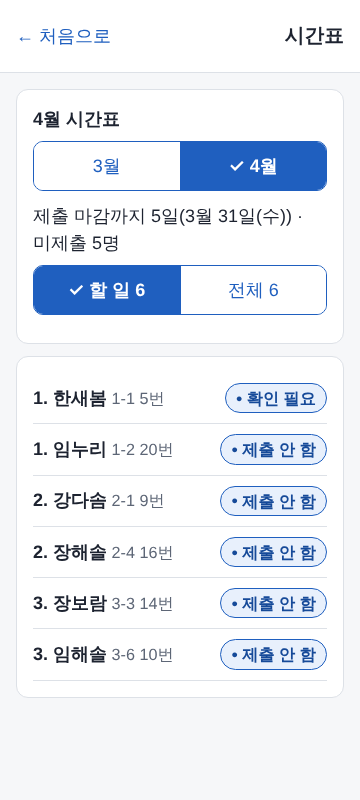
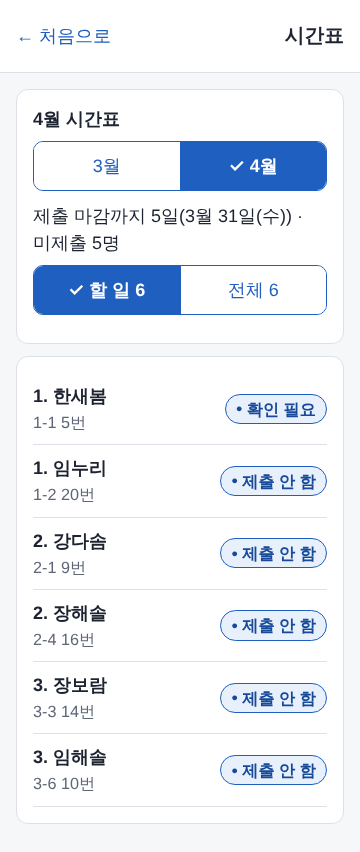
D14 후속: 고쳐진 화면 반영(누적표 거부 안내·확정 초록 안내·교사 목록 둘째 줄) + 사진 6장, 절 번호·진단 링크 확인 (#249)
- C12: '누적표는 관리자만 볼 수 있습니다.' 안내로 갱신, 사진 c-stats-teacher 추가
- D14·D17·읽는 법: 앞 숫자는 학년, 확정 초록 안내
- 13행 pilot-guide 7절→6절, A7·B10(DIAG_ENABLED 끈 뒤 접속 진단 링크 없음), pilot-guide 1절·이상할 때 표 갱신
- 사진 갱신: d-teacher-list·confirm·confirmed·other, d-student-confirmed

Claude-Session: https://claude.ai/code/session_01By8Yaa8urwsSoHVw3FXUZa

diff --git a/docs/design/stage7-teacher-checks.md b/docs/design/stage7-teacher-checks.md
@@ -10,7 +10,8 @@
 - 컴퓨터 테스트(`npm test`)가 이미 확인한 것은 각 절 끝에 "이미 확인됨"으로 적었습니다. 여기서는 **실제 Apps Script에서만 보이는 것**(실제 로그인 계정, 계정별 화면, 휴대폰 화면, 시트에 남는 기록)을 봅니다.
 - 이름은 모두 **가짜 데이터**입니다. 실제 학생·학부모 이름·전화번호로 시험하지 않습니다. 시험한 시설 일지·시간표는 끝에서 **취소**하거나 가짜 데이터 시트에서만 합니다(시범 운영 시트에서 하지 않습니다).
 - **날짜 주의:** 시간표(D)는 **매달 25일~말일에만 제출**할 수 있습니다. 시험하는 날이 그 기간이 아니면 D2부터는 "지금은 시간표를 내는 기간이 아닙니다"가 나오는 것이 **정상**입니다. 그때는 시트 `settings`의 `timetable.submit_start_day`를 시험하는 날 이하로 바꿨다가(예: 오늘이 10일이면 `1`) **시험이 끝나면 `25`로 되돌립니다**(`timetable.submit_end_day`는 `last` 그대로).
-- 쉬운 말로 적었습니다. 학생·학부모에게 안내할 말은 [`docs/plan/pilot-guide.md`](../plan/pilot-guide.md) 7절에 있습니다.
+- 목록의 "1. 한새봄"처럼 이름 앞에 붙은 **숫자는 학년**입니다(번호가 아닙니다). 그 아래 둘째 줄이 "반-번호"입니다(예: 1-1 5번).
+- 쉬운 말로 적었습니다. 학생·학부모에게 안내할 말은 [`docs/plan/pilot-guide.md`](../plan/pilot-guide.md) 6절에 있습니다.
 
 ## 시험 계정 — 학생·학부모는 **역할을 바꿔 가며** 쓰지 않고, 아래 계정을 따로 둡니다
 
@@ -49,6 +50,7 @@
 | A4 | 학생 A | 주소 끝에 `?page=sheet`(출석부)나 `?page=outs`(OUT 목록)를 붙여 엽니다 | **권한이 없습니다** 화면("이 화면은 볼 수 있는 역할이 아닙니다. 처음으로 돌아가 주세요."). 출석부·OUT 목록 같은 교사 화면은 열리지 않는다 | ![권한 없음](stage7-checks/a-student-noaccess.png) | |
 | A5 | 학생 A | **[내 OUT 자세히]**를 누르고 [← 돌아가기]로 돌아옵니다 | 내 OUT 목록(날짜·항목·1OUT). 취소된 OUT은 "취소"로 남아 있고 합계에는 세지 않는다. 메모·입력한 교사는 없다. 돌아가기가 홈으로 돌려보낸다 | | |
 | A6 | 학생 A | 홈의 **전화번호·이메일·교사 메모·상담 내용**을 찾아봅니다 | **어디에도 없다**(학생 홈에는 상담 줄 자체가 없다) | | |
+| A7 | 소유자 | 시범 운영 전에 시트 `settings`(스크립트 속성)의 **`DIAG_ENABLED`를 끄고**(`false`나 지움) 학생 A로 홈을 맨 아래까지 봅니다 | 맨 아래에 **"접속 진단" 링크가 없다**(켜 두면 "처음으로 · 접속 진단"이 보인다) | | |
 
 > 이미 확인됨: 학생은 본인 id로만 조회, 남의 학생 id를 보내면 거부(denied 기록), 응답에 다른 학생 이름·이메일·전화·메모·상담 내용 없음, 취소 OUT은 합계에서 제외.
 > 확인 못 한 것: **같은 gmail이 여러 학생 줄에 들어 있을 때**(본인 판정이 첫 줄로 정해진다), 실제 로그인 방식이 바뀌었을 때(0단계 진단 결과).
@@ -68,6 +70,7 @@
 | B7 | 연결 없는 학부모 | 접속해 홈을 봅니다 | 카드 **"연결된 자녀가 없습니다"**: "학교에 알려 주신 구글 계정과 자녀 정보가 아직 이어지지 않았습니다. 담당 선생님께 이 계정(로그인한 구글 계정)으로 자녀를 연결해 달라고 알려 주세요." | ![연결 없음](stage7-checks/b-parent-nolink.png) | |
 | B8 | 학부모 | 주소 끝에 `?page=counsel`(상담일지)을 붙여 엽니다 | **권한 없음 화면**. 상담일지 화면은 교사만 연다 | ![권한 없음](stage7-checks/b-parent-noaccess.png) | |
 | B9 | 소유자 | 시트를 보면서: 학부모 홈에 **상담 줄이 나온 날짜**가 별도 `신한1학사_상담일지` 시트의 `counsel_notes`에서 "학부모에게 보임"이 켜진 상담과 같은지 봅니다. 켜지 않은 상담은 학부모 홈에 **없는** 것을 확인합니다 | 학부모에게 보이도록 한 상담만 날짜·교사로 나온다. 상담 **내용**은 운영 시트가 아니라 별도 `신한1학사_상담일지`에만 있다 | | |
+| B10 | 소유자 | `DIAG_ENABLED`가 꺼진 채 학부모 홈과 "연결된 자녀가 없습니다" 화면(B7)을 맨 아래까지 봅니다 | **"접속 진단" 링크가 없다**("처음으로"만 있거나 아무것도 없다) | | |
 
 > 이미 확인됨: 학부모는 연결된 자녀 id만 조회(다른 집 자녀 id는 denied), 응답에 전화번호·상담 내용·교사 메모·이메일 없음, 상담은 날짜·교사만(학생이 공개한 것만), 연결 없는 학부모는 빈 목록.
 > 확인 못 한 것: **실제 보호자 gmail 연결**(학부모 로그인 방식은 0단계 진단 결과에 달려 있음), 화면을 다른 사람에게 보여 주는 경우(앱이 막을 수 없음 — 안내서 7절에 적었다).
@@ -89,7 +92,7 @@
 | C9 | 시험교사2 | (오늘 근무 아님) 같은 화면을 엽니다(주소 끝 `?page=facilityday`) | 노란 안내 **"시설 일지는 그날 근무 선생님만 볼 수 있습니다."**만 있고 일지 목록은 없다 | ![근무 아님](stage7-checks/c-day-notduty.png) | |
 | C10 | 소유자 | 홈의 **[누적표 보기]**(또는 주소 끝 `?page=facilityday&tab=stats`) | [그날 일지 \| **누적표**] 탭, 범위 [이 주 \| 이번 달] 와 [‹][›], "N명 · 합계 N시간 N분", 표(학생 × 날짜별 시설을 쓴 시간). 칸 아래 안내 "칸 = 그날 시설을 쓴 시간 합(함께 쓴 학생도 같은 시간으로 셉니다)…" | ![누적표](stage7-checks/c-stats-admin.png) | |
 | C11 | 학생 A | 주소 끝에 `?page=facilityday`를 붙여 엽니다 | **권한 없음 화면** — 학생은 그날 목록·누적표를 열 수 없다 | | |
-| C12 | 시험교사(관리자 아님) | 주소 끝에 `?page=facilityday&tab=stats`를 붙여 엽니다 | 누적표는 **관리자만**이라 목록이 나오지 않아야 한다. **알려진 화면 문제:** 지금은 안내 없이 "불러오는 중…"만 계속 보입니다(서버는 거부하고 있어 **자료는 새지 않습니다**). 총괄에게 알렸고, 고쳐지면 "권한이 없습니다" 같은 안내가 나옵니다 | | |
+| C12 | 시험교사(관리자 아님) | 주소 끝에 `?page=facilityday&tab=stats`를 붙여 엽니다 | 누적표는 **관리자만**이라 목록이 나오지 않고, 노란 안내 **"누적표는 관리자만 볼 수 있습니다."**만 있다 | ![누적표 거부](stage7-checks/c-stats-teacher.png) | |
 
 > 이미 확인됨: 쓰기·취소는 학생 본인만(남의 일지 취소 거부), 쓰기는 락 안에서 한 줄 추가, 취소는 지우지 않고 `status` 취소 + `audit_log`, 같은 시설·겹치는 시간 경고, 함께 쓴 학생 검색은 이름만(id·학번·전화 없음), 그날 근무교사만 그날 목록(예비·교대로 넘긴 원래 근무자는 안 됨), 누적표는 관리자만, 응답에 이메일 없음.
 > 확인 못 한 것: 실제 휴대폰에서 `input[type=time]`이 "오후 03:30"처럼 오전·오후로 보이는 기기가 있다(기기마다 다름). 누적표 칸을 눌러 그날 기록을 펼치는 기능은 아직 없다(후속).
@@ -113,10 +116,10 @@
 | D11 | 학생 A | 칸 하나(예: 월 ③)를 "학 (학원)"으로 바꾸고 **[시간표 제출]** | 고친 칸이 보이고, 알림 "시간표를 냈습니다." 뒤 단계 목록이 다시 **부모님 동의 기다리는 중**이 된다(**동의·확인이 처음부터 다시** 시작) | ![고침](stage7-checks/d-student-resubmit.png) ![다시 제출함](stage7-checks/d-student-resubmitted.png) | |
 | D12 | 학부모 | 다시 열어 **[동의합니다]** | 알림 "동의했습니다.", 글 **"동의하셨습니다. 담당 선생님이 확인하면 4월 1일부터 적용됩니다."**, 동의 버튼이 없다 | ![동의함](stage7-checks/d-parent-agreed.png) | |
 | D13 | 시험교사2 | (학생 A의 담당이 아님) 홈 → 시간표(주소 `?page=timetable&role=hall_teacher`)를 엽니다 | 목록에 **자기 담당 학생만** 있다. **학생 A의 이름은 없다** | ![담당 아님](stage7-checks/d-teacher-other.png) | |
-| D14 | 시험교사 | (학생 A의 담당) 홈의 **[시간표 열기]** | 카드 "4월 시간표"([3월 \| 4월] 탭, "제출 마감까지 N일(3월 31일(수)) · 미제출 N명", [할 일 N \| 전체 N]). 목록에 학생 A가 **"확인 필요"**(학부모 동의가 끝난 상태) 알약으로 나온다. **학부모가 아직 동의하지 않았으면 "동의 기다림"**으로 나오고, 누르면 시트에 [닫기]만 있어 **확인도 돌려보내기도 할 수 없다**. 아직 안 낸 학생은 "제출 안 함" | ![교사 목록](stage7-checks/d-teacher-list.png) | |
+| D14 | 시험교사 | (학생 A의 담당) 홈의 **[시간표 열기]** | 카드 "4월 시간표"([3월 \| 4월] 탭, "제출 마감까지 N일(3월 31일(수)) · 미제출 N명", [할 일 N \| 전체 N]). 목록은 한 줄에 "1. 한새봄"(앞 숫자는 학년), 둘째 줄에 "1-1 5번"(반-번호)이고, 학생 A가 **"확인 필요"**(학부모 동의가 끝난 상태) 알약으로 나온다. **학부모가 아직 동의하지 않았으면 "동의 기다림"**으로 나오고, 누르면 시트에 [닫기]만 있어 **확인도 돌려보내기도 할 수 없다**. 아직 안 낸 학생은 "제출 안 함" | ![교사 목록](stage7-checks/d-teacher-list.png) | |
 | D15 | 시험교사 | 학생 A 줄을 누릅니다 | 아래 시트 **"시간표를 확인합니다"**: "학(학원): 월" "가(집): 수" "부모 동의: 3월 26일(금)", 안내 "확인하면 4월 1일부터 출석부에 학·가가 나옵니다. 그 전까지는 지금 시간표가 그대로 쓰입니다.", [돌려보내기]·**[확인]** | ![확인 시트](stage7-checks/d-teacher-confirm.png) | |
 | D16 | 시험교사 | **[확인]** | 알림 **"확인했습니다."**, 목록에서 학생 A가 **"확정"** 알약이 된다 | ![확정](stage7-checks/d-teacher-confirmed.png) | |
-| D17 | 학생 A | 시간표 화면을 다시 엽니다 | 단계 목록 **모두 "완료"**, 맨 아래 **"4. 4월 1일부터 적용 확정"**. 표는 읽기만 | ![확정 화면](stage7-checks/d-student-confirmed.png) | |
+| D17 | 학생 A | 시간표 화면을 다시 엽니다 | 맨 위 **초록 안내 "4월 시간표가 확정되었습니다. 4월 1일부터 적용됩니다."**("확정되기 전에는…" 파란 안내는 없다), 단계 목록 **모두 "완료"**, 맨 아래 **"4. 4월 1일부터 적용 확정"**. 표는 읽기만 | ![확정 화면](stage7-checks/d-student-confirmed.png) | |
 | D18 | 소유자 | **확정 전에는 지금 시간표 유지:** 학생 A가 처음 제출한 뒤부터 교사 확인 전(D4~D15)에 **출결 담당**으로 4월 첫 월요일 출석부를 열어 학생 A의 칸을 봅니다. D16에서 확인한 뒤 같은 칸을 다시 봅니다 | **확인 전**(제출·동의만 한 상태)에는 4월 칸이 **3월 확정 시간표대로**이고, **확인한 뒤**부터 새 시간표(4월 1일부터)로 바뀐다. 3월 시간표가 없는 학생은 학·가가 없는 칸이다 | | |
 | D19 | 시험교사 | 학생 A로 D11~D12를 한 번 더 해서 **동의까지 받은 뒤**, 담당교사가 학생 A 줄 → **[돌려보내기]** → 사유를 **한 글자만** 적고 확정해 봅니다 | 한 글자면 "돌려보내는 사유를 2자 이상 100자 안으로 적어 주세요."로 돌려보내지지 않는다(버튼이 먼저 막힐 수도 있다). 두 글자 이상이면 알림 "돌려보냈습니다."이고, 학생 A 홈과 시간표 맨 위에 **"담당 ○○님이 시간표를 돌려보냈습니다. 사유: …"**가 뜬다 | | |
 | D20 | 학생 A | 마감(3월 31일)이 **지난 뒤**(또는 `timetable.submit_end_day`를 어제로 바꾼 뒤) 안 낸 달의 시간표를 엽니다 | **"지금은 시간표를 내는 기간이 아닙니다"** 카드 + 다음에 낼 수 있는 기간. 낼 수 없다. **마감 놓친 학생을 어떻게 할지는 총괄 확인 중** — 지금은 지난 확정 시간표가 그대로 쓰입니다 | | |

diff --git a/docs/plan/pilot-guide.md b/docs/plan/pilot-guide.md
@@ -14,7 +14,7 @@
 | 할 것 | 왜 |
 |---|---|
 | 웹앱을 **'나(소유자)로 실행'** 으로 배포한다. 배포 화면의 "다음 사용자 인증 정보로 실행"이 '나'인지 확인 | 데이터 시트는 아무와도 공유하지 않으므로, 웹앱이 소유자 권한으로 읽고 써야 한다. '접속한 사용자로 실행'이면 백업 같은 소유자 전용 함수의 확인이 누구에게나 통과한다(점검 #7) |
-| 스크립트 속성 **`DIAG_ENABLED`를 `false`로**(또는 지움) | 0단계에서 쓴 진단 화면(`diagPing`)을 닫는다. 켜 두면 필요 없는 정보 창구가 하나 남는다 |
+| 스크립트 속성 **`DIAG_ENABLED`를 `false`로**(또는 지움) | 0단계에서 쓴 진단 화면(`diagPing`)을 닫는다. 켜 두면 필요 없는 정보 창구가 하나 남는다. **끈 뒤 학생·학부모 계정으로 홈을 맨 아래까지 열어 "접속 진단" 링크가 없는지 확인한다**(7단계 확인표 **A7·B10**) |
 | **매일 백업 켜기:** 편집기에서 `installNightlyBackup` → `runBackupNow`를 실행하고 결과 확인 — 절차는 stage2 확인표 **A5** | 시범 운영 중 실수로 기록이 꼬여도 하루 전 사본으로 되돌릴 수 있다. 사본은 공유되지 않은 채 30일 보관된다(결정 65) |
 | 데이터 시트·백업 폴더의 **공유 버튼이 '나만'** 인지 확인 | 학생·학부모 정보가 들어 있다(CLAUDE.md 2). 웹앱만 데이터에 접근한다 |
 | 학사 교사·출결 담당·근무표 담당·담임 계정이 `users` 탭에 있고 역할이 맞는지 화면(관리자 홈)으로 확인 | 권한은 서버가 이 역할로 판정한다. 역할이 틀리면 버튼이 보여도 저장이 막히거나, 반대로 볼 필요 없는 것을 본다 |
@@ -144,4 +144,4 @@
 | 학부모 첫 화면에 "연결된 자녀가 없습니다" | `guardian_links`의 `parent_email` | 담당 교사가 그 계정으로 연결한다(명단 올리기의 학부모 연결) |
 | 학생이 시간표 화면에서 "지금은 시간표를 내는 기간이 아닙니다" | 오늘 날짜, 설정 `timetable.submit_*` | 25일~말일이 아니면 정상이다. 기간을 바꿔야 하면 설정 값을 고친다 |
 | 학부모가 동의했는데 교사 목록에 안 나옴 | 교사 화면의 달 탭(3월·4월) | 달 탭을 바꿔 본다. 담당교사가 맞는지 `enrollments`의 `teacher_email`을 확인한다 |
-| 교사가 누적표(`?page=facilityday&tab=stats`)를 열면 계속 "불러오는 중…" | — | **알려진 화면 문제**(자료는 새지 않는다). 누적표는 관리자 화면에서 연다. 총괄이 고친다 |
+| 교사가 시설 일지 누적표(`?page=facilityday&tab=stats`)를 열면 "누적표는 관리자만 볼 수 있습니다." | — | 정상이다. 누적표는 관리자만 본다. 필요하면 관리자가 연다 |
